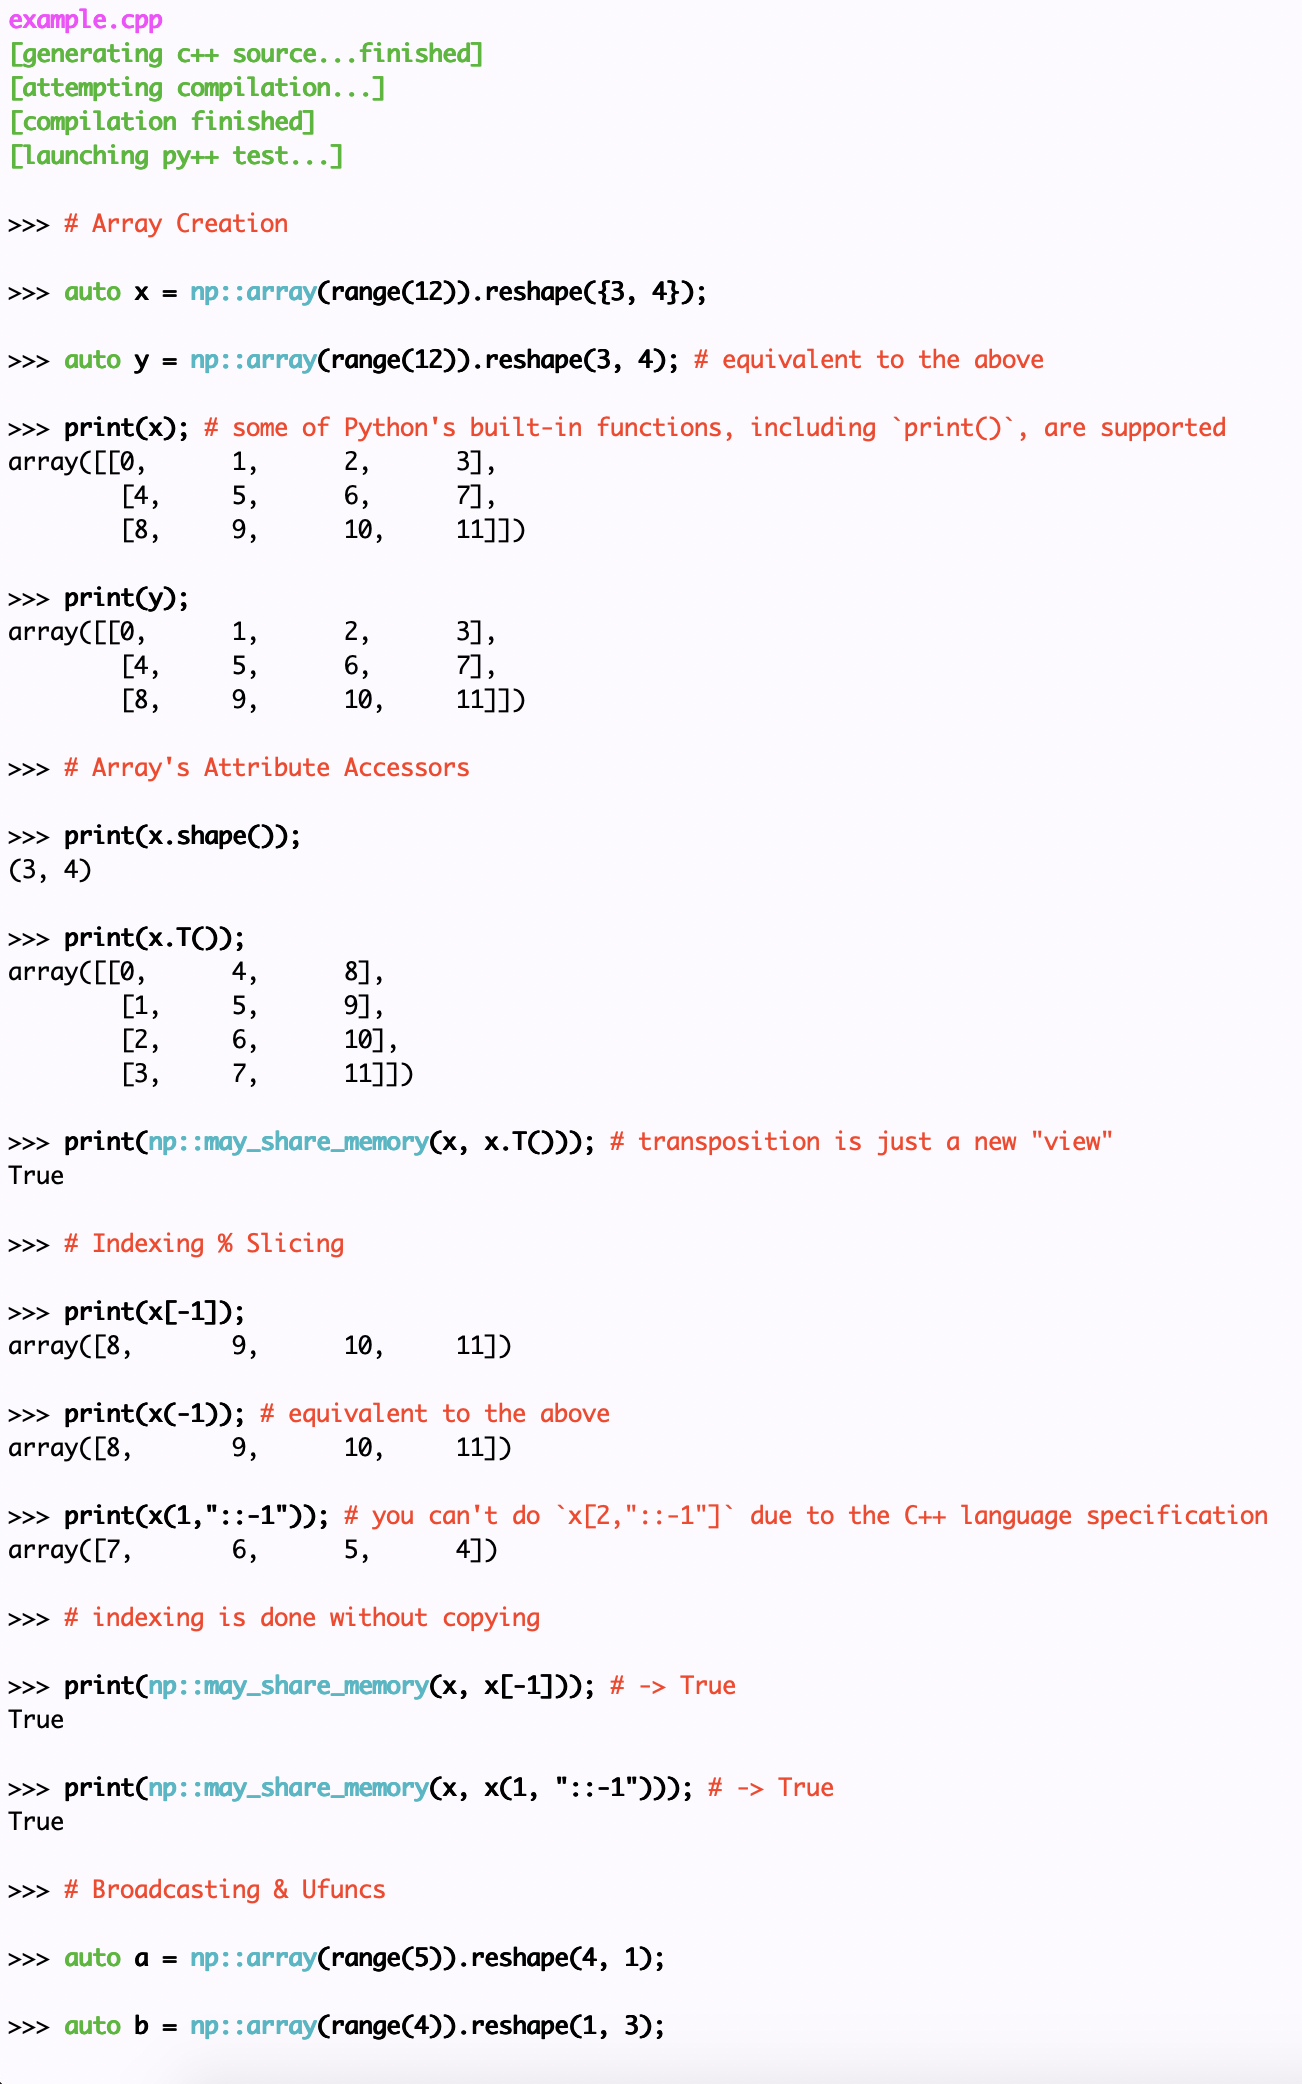
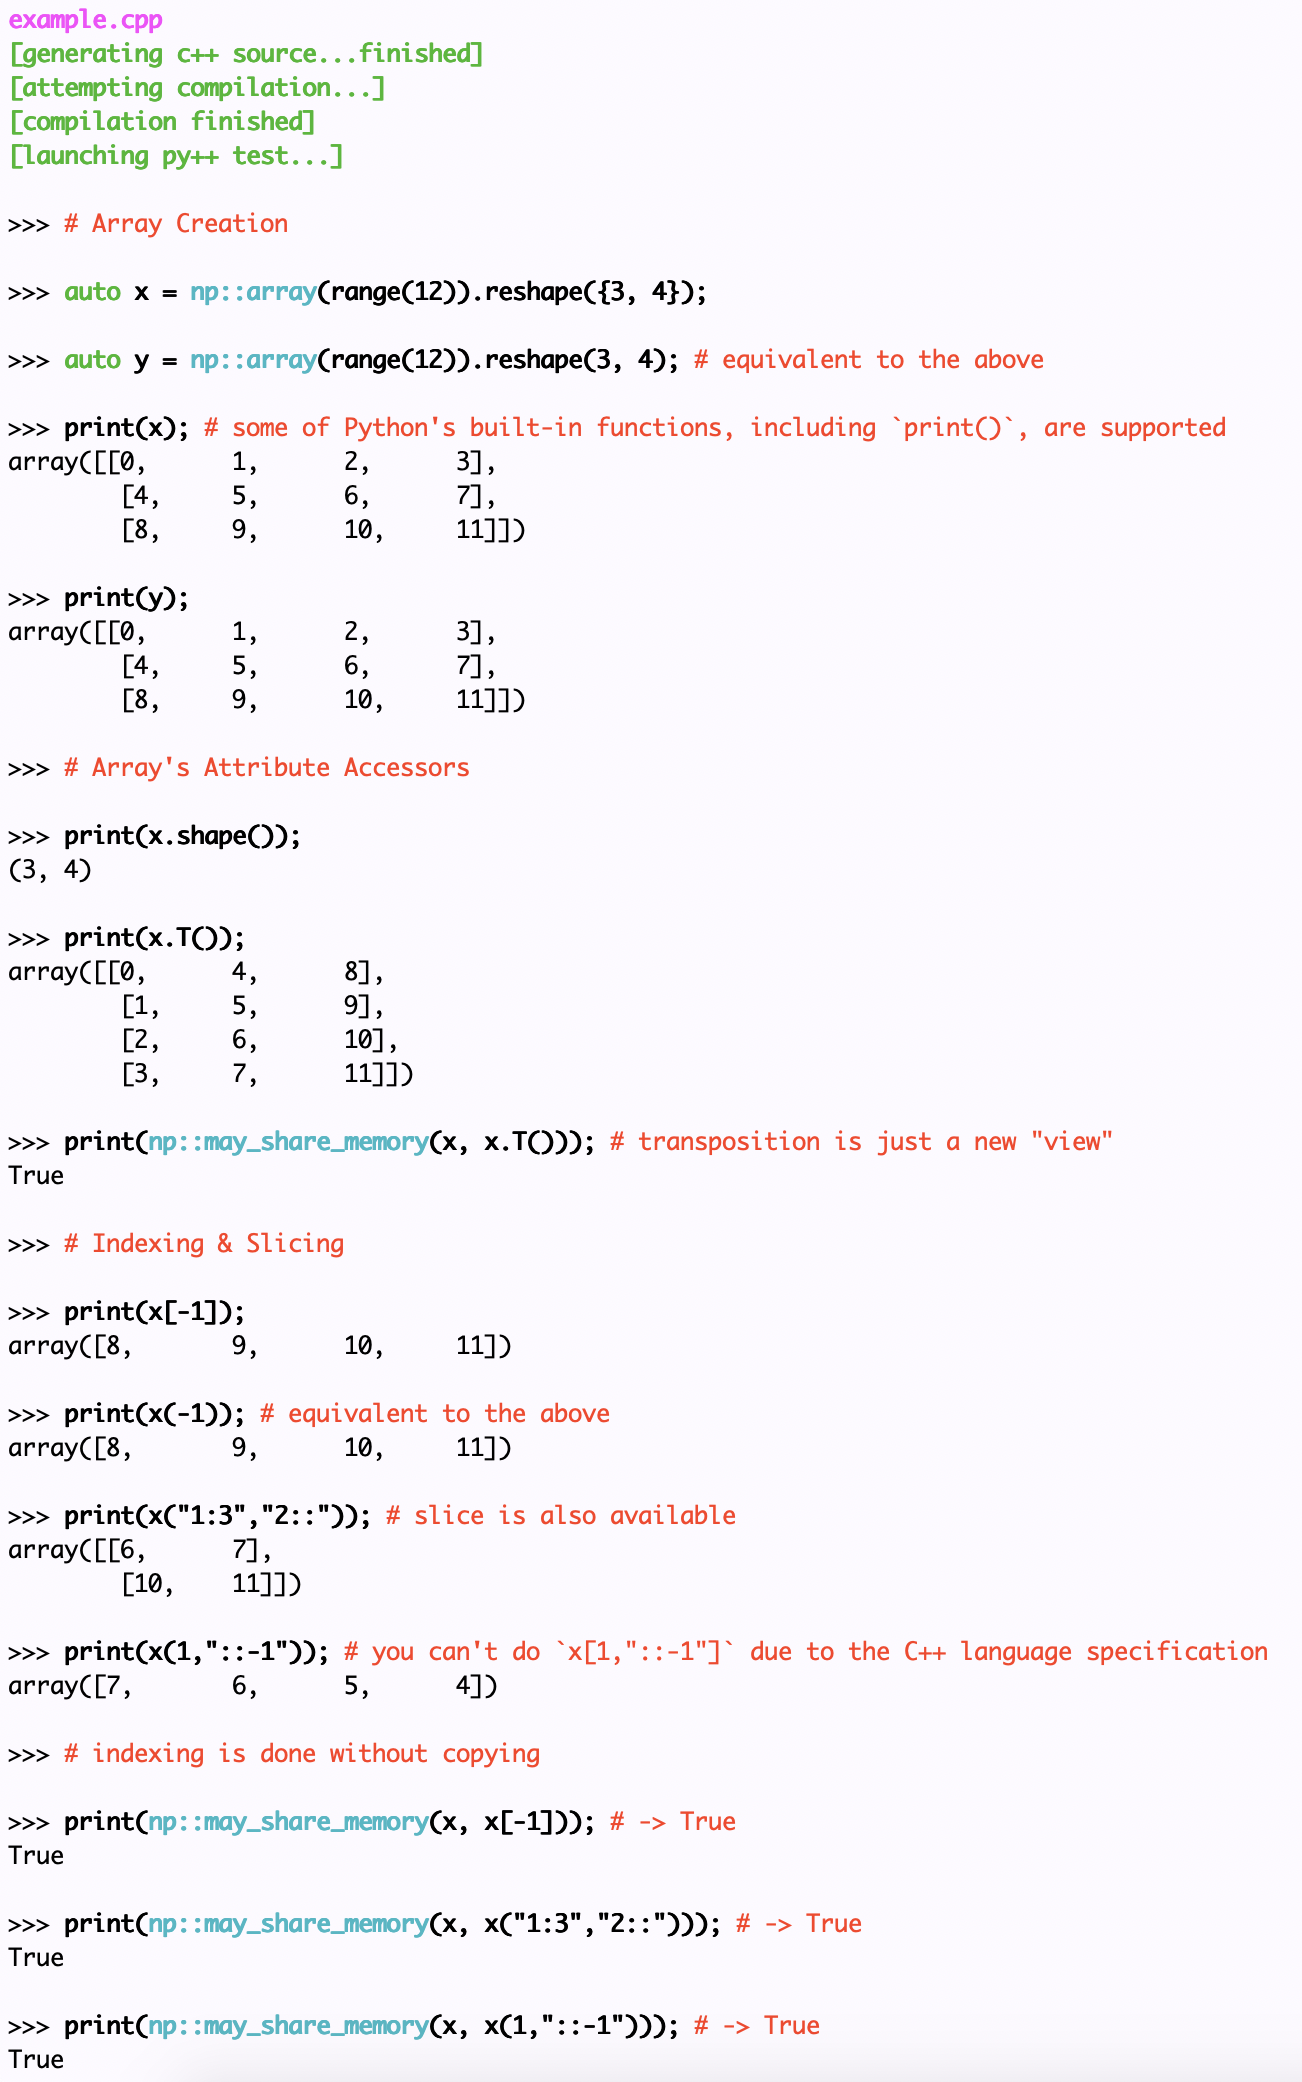
improved readme

diff --git a/numpy/slice.hpp b/numpy/slice.hpp
@@ -30,15 +30,15 @@ namespace python {
     constexpr explicit slice(int stop)
       : slice(0, stop, 1) {}
     
-    slice(const char* str) { // ":"とか"1:-1"とか
-      std::cmatch m;
+    slice(std::string str) { // ":"とか"1:-1"とか
+      if (str.find(":") == std::string::npos)
+	throw std::invalid_argument("It is forbidden to express a non-slice index (i.e. a mere integer) by a string in order to eliminate ambiguity; use an integer type instead.");
+      
+      std::smatch m;
       if (std::regex_match(str, m, re)) {
 	bool start_empty = m[1].str().empty();
 	bool stop_empty = m[3].str().empty();
 	bool step_empty = m[5].str().empty();
-
-	if (stop_empty and step_empty and (not start_empty))
-	  throw std::invalid_argument("It is forbidden to express a non-slice index (i.e. a mere integer) by a string in order to eliminate ambiguity; use an integer type instead.");
 	
 	// check step first!!
 	step = (step_empty) ? 1 : std::stoi(m[5]);
@@ -56,8 +56,7 @@ namespace python {
 	throw std::invalid_argument("SyntaxError: invalid syntax while initializing slice: \"" + std::string(str) + "\"");
     }
     
-    slice(const std::string& str)
-      : slice(str.c_str()) {}
+    slice(const char* str): slice(std::string(str)) {}
 
     int size(int length) const {
       int ret =  (abs_stop(length) - abs_start(length)) / step;

diff --git a/test/example.cpp b/test/example.cpp
@@ -18,10 +18,12 @@ int main() {
   // Indexing & Slicing
   print(x[-1]);
   print(x(-1)); // equivalent to the above
+  print(x("1:3","2::")); // slice is also available
   print(x(1,"::-1")); // you can't do `x[1,"::-1"]` due to the C++ language specification
   // indexing is done without copying
   print(np::may_share_memory(x, x[-1])); // -> True
-  print(np::may_share_memory(x, x(1, "::-1"))); // -> True
+  print(np::may_share_memory(x, x("1:3","2::"))); // -> True
+  print(np::may_share_memory(x, x(1,"::-1"))); // -> True
 
   // Broadcasting & Ufuncs
   auto a = np::array(range(5)).reshape(4, 1);
@@ -33,7 +35,7 @@ int main() {
   print(a + b); // `a` & `b` is broadcasted to the common shape (4, 3) in the internal of `np::add()`
   print(np::add(a, b)); // equivalent to the above
 
-  auto out = np::empty<np::int32>({4, 3}); // and `out` parameter is also available, just as the original NumPy!
+  auto out = np::empty<np::int32>({4, 3}); // `out` parameter is also available, just as the original NumPy!
   np::add(a, b, out);
   print(out);
 
